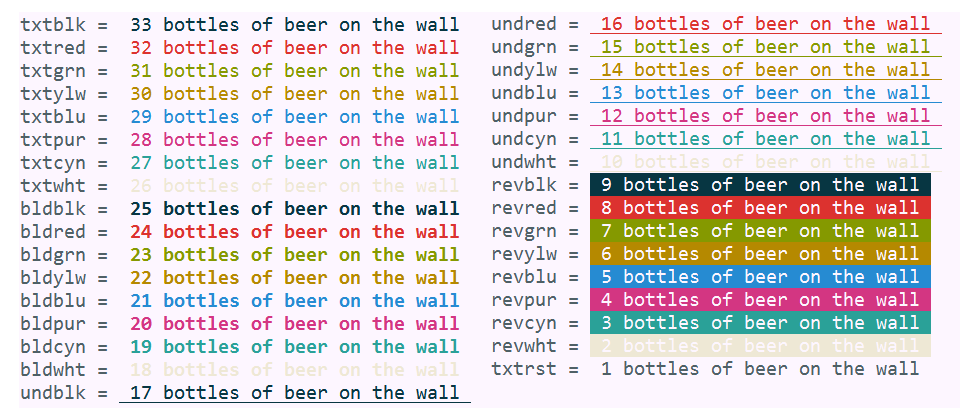
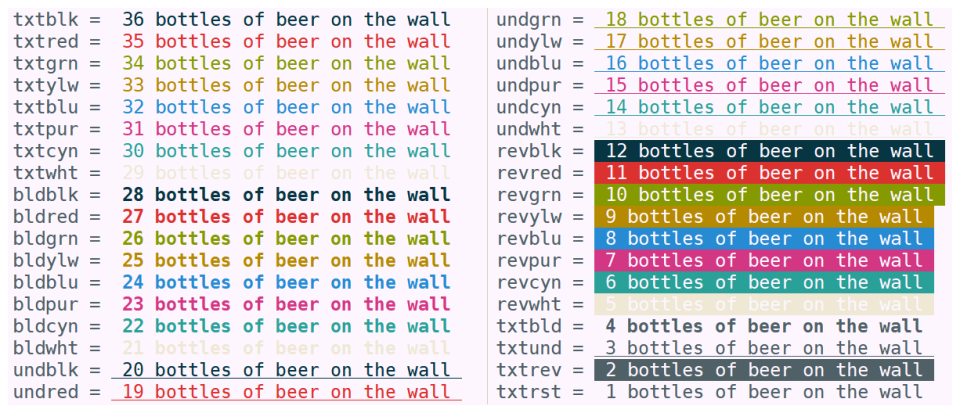
add plain bold, underline and revese codes

diff --git a/lib/colsole.rb b/lib/colsole.rb
@@ -21,7 +21,7 @@ module Colsole
   # Prints a color-flagged string.
   # Use color flags (like !txtred!) to change color in the string.
   # Space terminated strings will leave the cursor at the same line.
-  def say(text, force_color=false) 
+  def say(text, force_color = false)
     last = text[-1, 1]
     if terminal? and (last == ' ' or last == '\t')
       print colorize(text, force_color)
@@ -32,13 +32,13 @@ module Colsole
 
   # Prints a color-flagged string to STDERR
   # Use color flags (like !txtred!) to change color in the string.
-  def say!(text, force_color=false) 
+  def say!(text, force_color = false)
     $stderr.puts colorize(text, force_color, :stderr)
   end
 
   # Erase the current output line, and say a new string.
   # This should be used after a space terminated say().
-  def resay(text, force_color=false) 
+  def resay(text, force_color = false)
     text = "\033[2K\r#{text}" if terminal?
     say text, force_color
   end
@@ -47,13 +47,13 @@ module Colsole
   # Status can be a symbol or a string. Color is optional, defaults to
   # green (:txtgrn) when there is a message, and to blue (:txtblu) when
   # there is only a status
-  def say_status(status, message=nil, color=nil)
+  def say_status(status, message = nil, color = nil)
     color ||= (message ? :txtgrn : :txtblu)
     say "!#{color}!#{status.to_s.rjust 12} !txtrst! #{message}".strip
   end
 
   # Returns true if stdout/stderr is interactive terminal
-  def terminal?(stream=:stdout)
+  def terminal?(stream = :stdout)
     stream == :stdout ? out_terminal? : err_terminal?
   end
 
@@ -76,7 +76,7 @@ module Colsole
 
   # Returns [width, height] of terminal when detected, or a default
   # value otherwise.
-  def detect_terminal_size(default=[80,30])
+  def detect_terminal_size(default = [80,30])
     if (ENV['COLUMNS'] =~ /^\d+$/) && (ENV['LINES'] =~ /^\d+$/)
       result = [ENV['COLUMNS'].to_i, ENV['LINES'].to_i]
     elsif (RUBY_PLATFORM =~ /java/ || (!STDIN.tty? && ENV['TERM'])) && command_exist?('tput')
@@ -98,7 +98,7 @@ module Colsole
   # Converts a long string to be wrapped keeping words in tact.
   # If the string starts with one or more spaces, they will be 
   # preserved in all subsequent lines (i.e., remain indented).
-  def word_wrap(text, length=nil)
+  def word_wrap(text, length = nil)
     length ||= terminal_width
     lead = text[/^\s*/]
     text.strip!
@@ -116,13 +116,13 @@ module Colsole
   # Parses and returns a color-flagged string.
   # Respects pipe and auto terminates colored strings.
   # Call without text to see a list/demo of all available colors.
-  def colorize(text=nil, force_color=false, stream=:stdout) 
+  def colorize(text = nil, force_color = false, stream = :stdout)
     return show_color_demo if text.nil?
     return strip_color_markers(text) unless terminal?(stream) || force_color
     colorize! text
   end
 
-  private
+private
 
   def colors
     @colors ||= prepare_colors
@@ -133,11 +133,11 @@ module Colsole
     reset_called_last = true
 
     out = text.gsub(/\!([a-z]{6})\!/) do |m|
-      reset_called_last = $1 == "txtrst";
-      colors[$1];
+      reset_called_last = $1 == "txtrst"
+      colors[$1]
     end
     
-    reset_called_last or out = "#{out}#{reset}";
+    reset_called_last or out = "#{out}#{reset}"
     out
   end
 
@@ -145,9 +145,7 @@ module Colsole
   # and values which are the escape codes for the colors.
   def prepare_colors
     esc = 27.chr
-    # pattern_full  = "#{esc}[%{decor};%{fg};%{bg}m"
-    pattern_fg    = "#{esc}[%{decor};%{fg}m"
-    pattern_reset = "#{esc}[0m"
+    pattern = "#{esc}[%{decor};%{fg}m"
 
     decors = { txt: 0, bld: 1, und: 4, rev: 7 }
     color_codes = { blk: 0, red: 1, grn: 2, ylw: 3, blu: 4, pur: 5, cyn: 6, wht: 7 }
@@ -156,17 +154,20 @@ module Colsole
     decors.each do |dk, dv|
       color_codes.each do |ck, cv|
         key = "#{dk}#{ck}"
-        val = pattern_fg % { decor: dv, fg: "3#{cv}" }
+        val = pattern % { decor: dv, fg: "3#{cv}" }
         colors[key] = val
       end
     end
-    colors['txtrst'] = pattern_reset
+    colors['txtbld'] = "#{esc}[1m"
+    colors['txtund'] = "#{esc}[4m"
+    colors['txtrev'] = "#{esc}[7m"
+    colors['txtrst'] = "#{esc}[0m"
     colors
   end
 
   def show_color_demo
-    i=33;
-    colors.each do |k,v| 
+    i = colors.count
+    colors.keys.each do |k| 
       puts colorize "#{k} = !#{k}! #{i} bottles of beer on the wall !txtrst!"
       i -= 1
     end

diff --git a/spec/colsole/colsole_spec.rb b/spec/colsole/colsole_spec.rb
@@ -261,7 +261,7 @@ describe Colsole do
 
     context "without arguments" do
       it "outputs a demo string" do
-        expected = /txtblk = .*m 33 bottles of beer on the wall .*m\n/
+        expected = /txtblk = .*m 36 bottles of beer on the wall .*m\n/
         expect{colorize}.to output(expected).to_stdout
       end
     end
